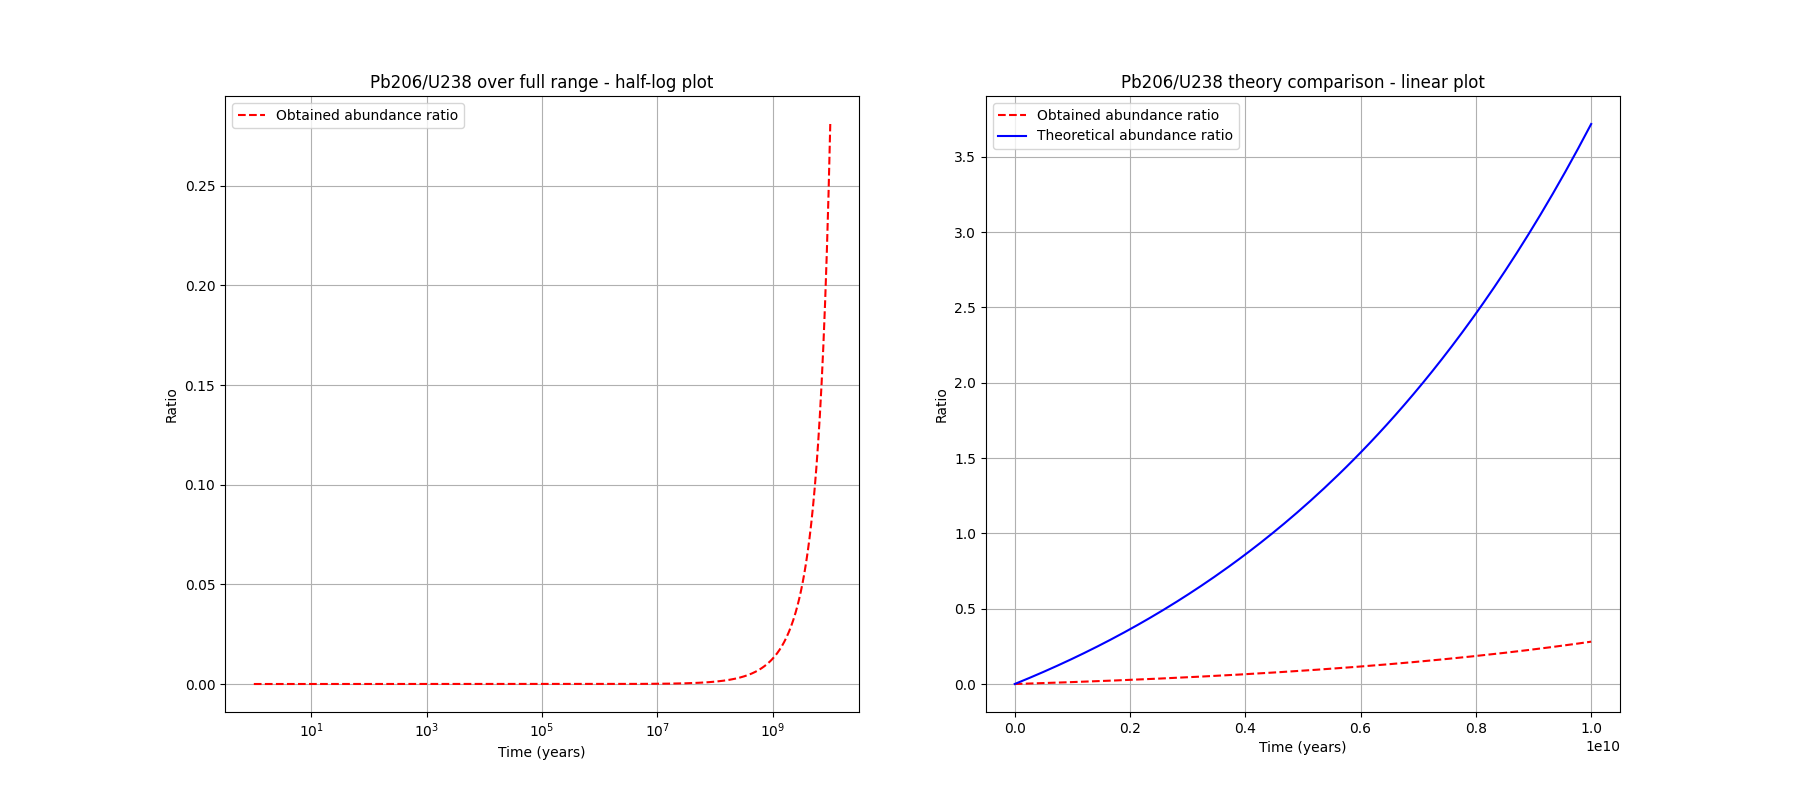
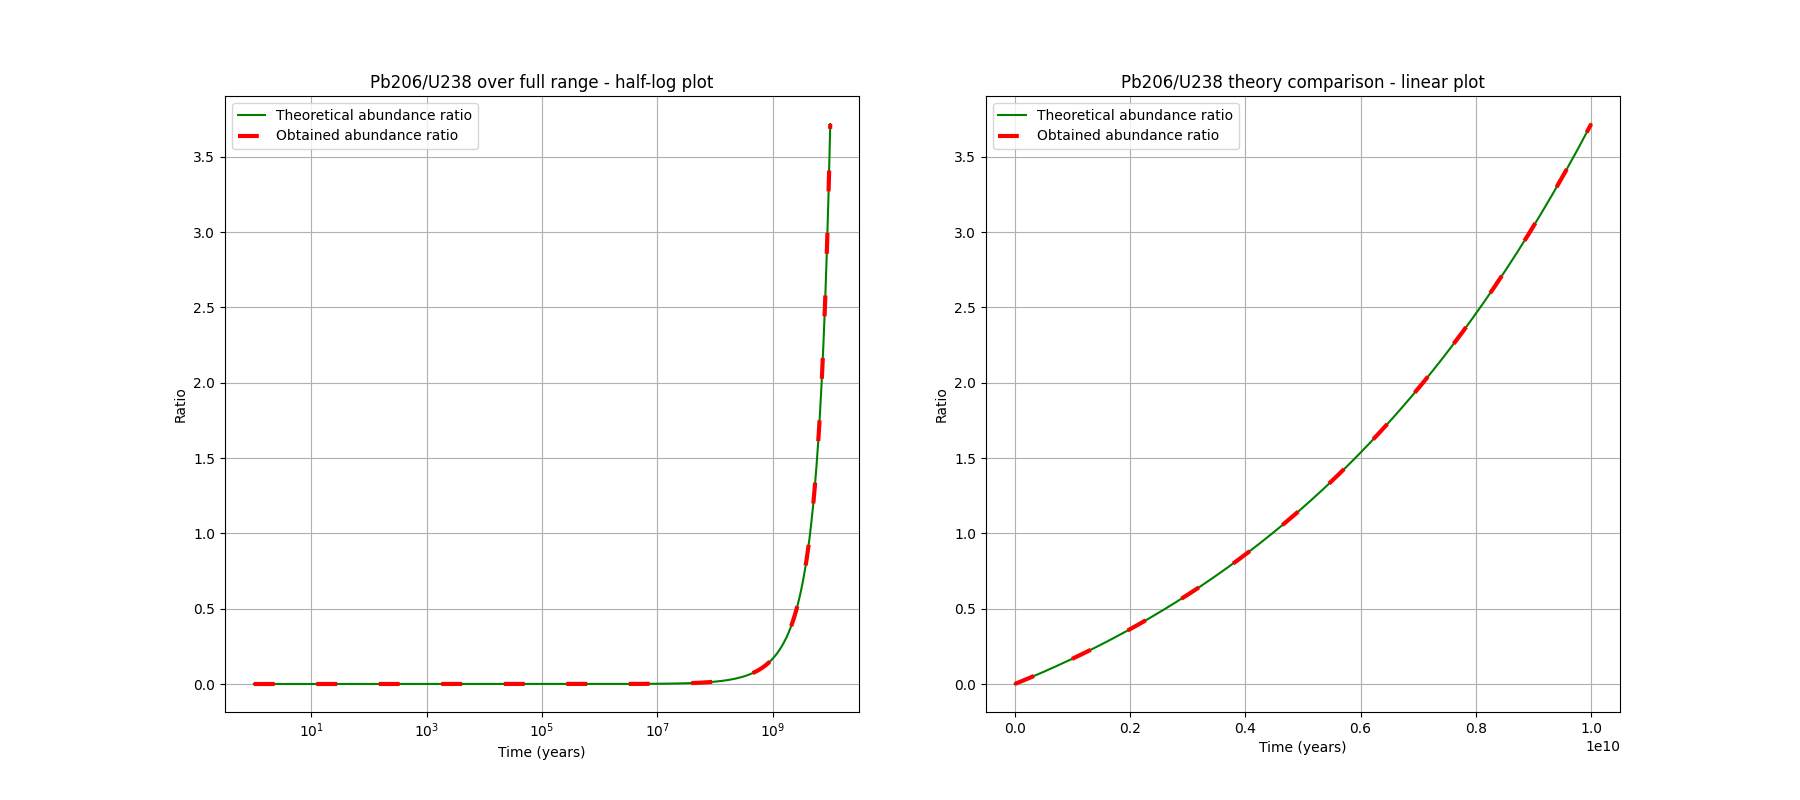
bug fix in q2

diff --git a/ps3/q2/q2.py b/ps3/q2/q2.py
@@ -9,13 +9,8 @@ def derivs(t, n, hlf):
 
     k = np.log(2)/hlf  # rate constants
     dndt = np.zeros(len(hlf)+1)
-    
-    #set U-238 manually
-    dndt[0] = -k[0]*n[0]
-    for i in range(1,len(hlf)):
-        dndt[i] = -k[i]*n[i] + k[i-1]*n[i-1]
-    #set Pb-206 manually
-    dndt[-1] = k[-2]*n[-2]
+    dndt[:-1] = -k * n[:-1]
+    dndt[1:] = dndt[1:] + k*n[:-1]
 
     return dndt
 
@@ -64,7 +59,8 @@ if __name__ == '__main__':
     fig.set_size_inches(18,8)
 
     ax[0].set_title('Pb206/U238 over full range - half-log plot')
-    ax[0].plot(teval, N_out[-1,:]/N_out[0,:],'r--', label="Obtained abundance ratio")
+    ax[0].plot(teval, Pb_U_theory,'g-', label="Theoretical abundance ratio")
+    ax[0].plot(teval, N_out[-1,:]/N_out[0,:],'r',linestyle=(0, (5, 10)), lw=3,label="Obtained abundance ratio")
     leg = ax[0].legend()
     ax[0].set_xscale('log')
     ax[0].set_xlabel('Time (years)')
@@ -72,8 +68,8 @@ if __name__ == '__main__':
     ax[0].grid(True)
 
     ax[1].set_title('Pb206/U238 theory comparison - linear plot')
-    ax[1].plot(teval, N_out[-1,:]/N_out[0,:],'r--', label="Obtained abundance ratio")
-    ax[1].plot(teval, Pb_U_theory,'b-', label="Theoretical abundance ratio")
+    ax[1].plot(teval, Pb_U_theory,'g-', label="Theoretical abundance ratio")
+    ax[1].plot(teval, N_out[-1,:]/N_out[0,:],'r', linestyle=(0, (5, 10)), lw=3,label="Obtained abundance ratio")
     leg = ax[1].legend()
     # ax[1].set_xscale('log')
     # ax[1].set_yscale('log')
